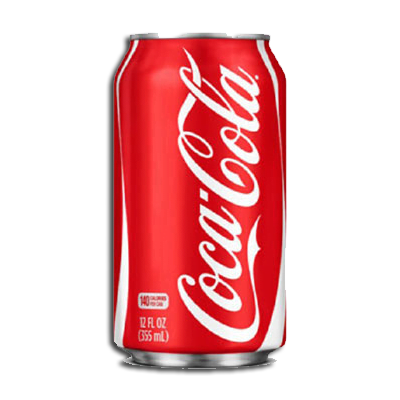
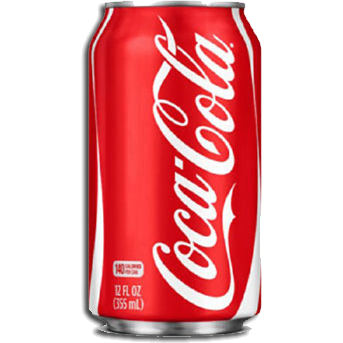
Implementación de recursos graficos faltantes

diff --git a/src/main/java/org/main/vistas/PanelExpendedor.java b/src/main/java/org/main/vistas/PanelExpendedor.java
@@ -1,11 +1,8 @@
 package org.main.vistas;
 import org.main.modelos.expendedor.Deposito;
 import org.main.modelos.expendedor.Expendedor;
-import org.main.modelos.moneda.Moneda;
-import org.main.modelos.moneda.Moneda100;
-import org.main.modelos.moneda.Moneda500;
-import org.main.modelos.productos.CocaCola;
-import org.main.modelos.productos.Sprite;
+import org.main.modelos.moneda.*;
+import org.main.modelos.productos.*;
 
 import javax.swing.JPanel;
 import java.awt.*;
@@ -16,25 +13,38 @@ public class PanelExpendedor extends JPanel {
     private ArrayList<PanelDeposito<?>> paneles;
     public PanelExpendedor(Expendedor exp) {
         super();
-        setLayout(new GridLayout(3,1));
+        setLayout(new GridLayout(6,1));
         setPreferredSize(new Dimension(1200, 1200));
 
 
         // Crear paneles deposito
+        //TODO: refactor?
         Deposito<CocaCola> cocaDep = exp.getDepCocaCola();
-        PanelDeposito<CocaCola> panelCoca = new PanelDeposito<>(CocaCola.class, cocaDep, 64, 120);
+        PanelDeposito<CocaCola> panelCoca = new PanelDeposito<>(CocaCola.class, cocaDep, 64, 64);
         Deposito<Sprite> spriteDep = exp.getDepSprite();
         PanelDeposito<Sprite> panelSprite = new PanelDeposito<>(Sprite.class, spriteDep, 64, 64);
+        Deposito<Fanta> fantaDep = exp.getDepFanta();
+        PanelDeposito<Fanta> panelFanta = new PanelDeposito<Fanta>(Fanta.class, fantaDep, 64, 64);
+        Deposito<Snickers> snickersDep = exp.getDepSnickers();
+        PanelDeposito<Snickers> panelSnickers = new PanelDeposito<Snickers>(Snickers.class, snickersDep, 64, 64);
+        Deposito<Super8> super8Dep = exp.getDepSuper8();
+        PanelDeposito<Super8> panelSuper8 = new PanelDeposito<>(Super8.class, super8Dep, 64, 64);
 
         paneles = new ArrayList<>();
 
         Deposito<Moneda> monedaDep = new Deposito<>();
-        monedaDep.addObjeto(new Moneda100()); monedaDep.addObjeto(new Moneda500());
+        monedaDep.addObjeto(new Moneda100());
+        monedaDep.addObjeto(new Moneda500());
+        monedaDep.addObjeto(new Moneda1000());
+        monedaDep.addObjeto(new Moneda1500());
         PanelDeposito<Moneda> panelMoneda = new PanelDeposito<>(Moneda.class, monedaDep, 64, 64);
 
         // TODO: Hacer algo con el catálogo de tal manera que haga paneles de depósito para todos los productos.
         paneles.add(panelCoca);
         paneles.add(panelSprite);
+        paneles.add(panelFanta);
+        paneles.add(panelSnickers);
+        paneles.add(panelSuper8);
         paneles.add(panelMoneda);
 
         for (JPanel panel : paneles) {

diff --git a/src/main/java/org/main/vistas/PanelMoneda.java b/src/main/java/org/main/vistas/PanelMoneda.java
@@ -1,7 +1,11 @@
 package org.main.vistas;
 
+import javax.imageio.ImageIO;
 import javax.swing.*;
 import java.awt.*;
+import java.awt.image.BufferedImage;
+import java.io.IOException;
+
 import org.main.modelos.moneda.*;
 
 public class PanelMoneda extends JPanel {
@@ -30,9 +34,30 @@ public class PanelMoneda extends JPanel {
     }
     public void paint(Graphics g) {
         //TODO: Añadir colores que representan valores
+        //TODO: No usar paint()
         super.paint(g);
-        g.setColor(Color.GRAY);
-        g.fillOval(0, 0, getWidth(), getHeight());
+
+        BufferedImage imagen = null;
+        try {
+            switch (moneda.getValor()) {
+                case 100:
+                    imagen = ImageIO.read(getClass().getResource("/Moneda100.png"));
+                    break;
+                case 500:
+                    imagen = ImageIO.read(getClass().getResource("/Moneda500.png"));
+                    break;
+                case 1000:
+                    imagen = ImageIO.read(getClass().getResource("/Moneda1000.png"));
+                    break;
+                case 1500:
+                    imagen = ImageIO.read(getClass().getResource("/Moneda1500.png"));
+                    break;
+            }
+        } catch (IOException e) {
+            System.err.println(e.getMessage());
+        }
+        Image reImg = imagen.getScaledInstance(getWidth(), getHeight(), Image.SCALE_SMOOTH);
+        g.drawImage(reImg, 0, 0, null);
         paintComponents(g);
     }
     class TextoSimple extends JLabel {

diff --git a/src/main/java/org/main/vistas/PanelProducto.java b/src/main/java/org/main/vistas/PanelProducto.java
@@ -15,10 +15,17 @@ public class PanelProducto extends JLabel {
         this.producto = producto;
         BufferedImage imagen = null;
         try {
-            if (producto.consumir() == "CocaCola") {
-                imagen = ImageIO.read(getClass().getResource("/CocaCola.png"));
-            } else if (producto.consumir() == "Sprite") {
-                imagen = ImageIO.read(getClass().getResource("/Sprite.png"));
+            switch (producto.consumir()) {
+                case "CocaCola":
+                    imagen = ImageIO.read(getClass().getResource("/CocaCola.png")); break;
+                case "Sprite":
+                    imagen = ImageIO.read(getClass().getResource("/Sprite.png")); break;
+                case "Fanta":
+                    imagen = ImageIO.read(getClass().getResource("/Fanta.png")); break;
+                case "Snickers":
+                    imagen = ImageIO.read(getClass().getResource("/Snickers.png")); break;
+                case "Super8":
+                    imagen = ImageIO.read(getClass().getResource("/Super8.png")); break;
             }
         } catch (IOException e) {
             System.err.println(e.getMessage());
